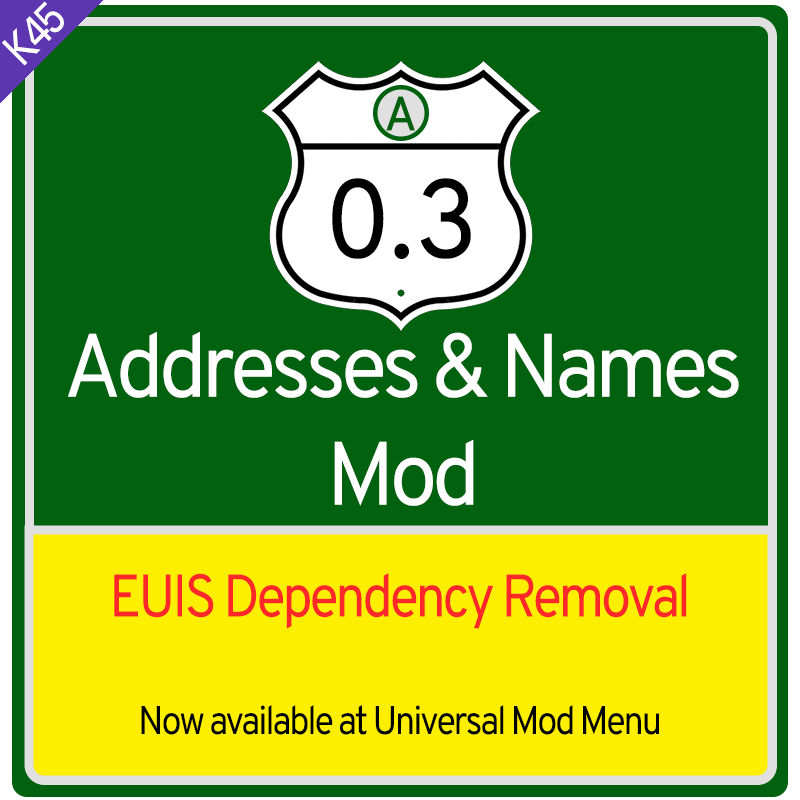
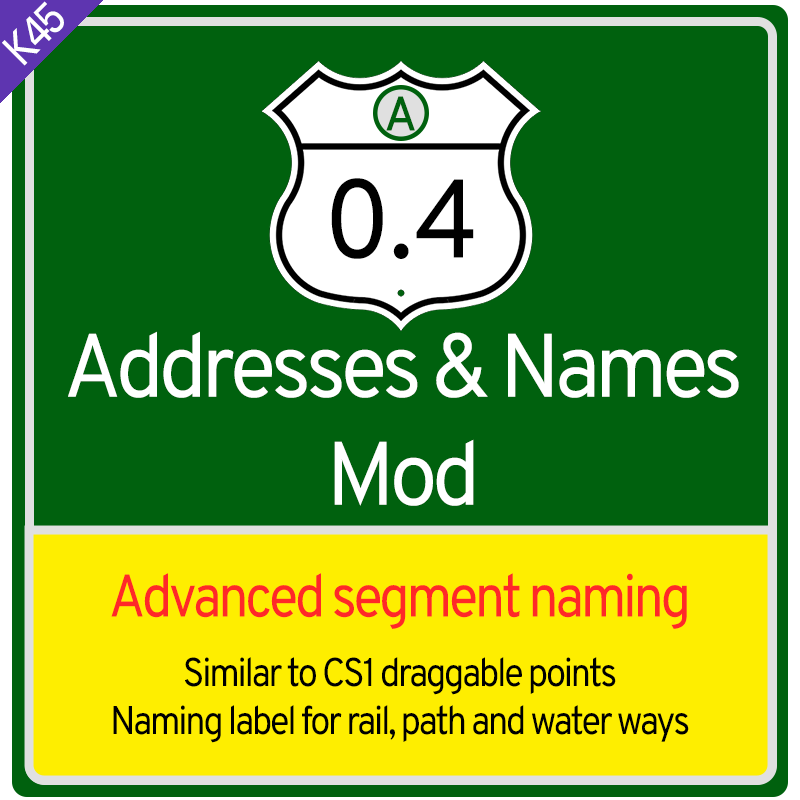
v0.4.0r0
Updating description and changelog

diff --git a/BelzontAdr/README.md b/BelzontAdr/README.md
@@ -1,7 +1,7 @@
 # Addresses & Names Mod for Cities Skylines 2
 ## _Name it all as you wish_
 
-This mod is the successor of the CS1 homonimous mod. It allows changing vanilla methods of name generation to custom name sets.
+This mod is the successor of the CS1 homonymous mod. It allows changing vanilla methods of name generation to custom name sets, and lets you build custom road (and other network) name groups with shared house numbering.
 
 You can find several name files at [Addresses Files repository at GitHub](https://github.com/klyte45/AddressesFiles). These files will work for both CS1 and CS2 versions of this mod.
 
@@ -12,21 +12,25 @@ You can find several name files at [Addresses Files repository at GitHub](https:
 ## Current features
 
 - Settings available in the vanilla `Mods` menu through the Universal Mod Menu integration. Extra UI Screens is not required.
-- **Road marker asset:** store information of a road and don't lose it when the game regenerate the road names
-- **Highway settings editor:** register highways to be shown specially in the game, useful for Write Everywhere integration but also helpful without it. Requires the Road marker asset to associate the highway with the roads.
+- **Road Grouping tool:** fork vanilla aggregations into custom A&N groups that share one name and one house-number sequence. Join or split membership with click, endpoint drag, and fixed pin; overlays show membership and number ranges. Options cover custom name, naming seed, and highway data. Enable the tool and its hotkey in mod options.
+- **Multi-kind network groups:** roads, pathways, train/tram/subway, waterways, and taxiways. Street and highway may share a road group; mixing different network kinds is blocked with clear feedback. Non-road groups get kind-colored name labels.
+- **Citywide convert / remove:** on Roads & Districts settings, convert selected network kinds to A&N aggregations, or remove A&N aggregations (optionally keeping highway groups).
+- **A&N road name labels:** while the mod is loaded, road name labels are drawn by A&N (one-way arrows unchanged). Clicking a label selects the A&N group when applicable. Label sizing / automatic distance options are in General settings.
+- **Highway settings editor:** register highways in the region settings UI. Assign route, direction, and mileage on an **A&N road group** from the Addresses selected-info panel or Road Grouping tool options. Highway name labels show a yellow route-code line (`prefix-suffix`, with optional direction). Useful with Write Everywhere and without it.
+- **Road marker asset:** placeable props for Write Everywhere and custom numeric parameters. Markers are visual; they do not author highway route or mileage (that lives on the A&N group).
 - **Neighbor cities editor:** register neighbor cities to be used when retrieving the outside connection name. They can be reached by land, water, air or any combination of them. A map shows them in the in-game settings UI.
 - Edit names of any clickable object in the editor (and save changes to send with the maps created)
 - Change sources references for stations names and seeds for roads and districts names in the selected info panel
 - In-game filename viewer, showing the weight of each word.
   - Words with a higher weight tends to appear more frequently
   - Raise word weight by creating several lines with same content in the name file.
-- Organize your file names using subfolder in the names folder (NEW)
+- Organize your file names using subfolders in the names folder
 - Choose files to override name generation of:
   - Male cims
   - Female cims
   - Surnames (are last names as default, but may be inverted to follow oriental standard)
 	- To use gendered surnames, in the surname files add the female and male version of the surname separated by a semicolon (;)
-  - Dogs (NEW)
+  - Dogs
   - Roads (Global and by district)
   - Districts
 - Roads qualifier rules editor
@@ -38,15 +42,22 @@ Now it's possible to setup the mod to generate up to 5 given names and up to 5 s
 
 ## Road marker: Write Everywhere integration
 
-Any modder interested on create WE Modules that serves content to road markers might want to describe the available settings to show in the game UI. Addresses offers two integer parameters that can be used as desired by 
-module designers, example can be found at [Addresses Marker as Signs Pack](????) repository.
+Any modder interested on create WE Modules that serves content to road markers might want to describe the available settings to show in the game UI. Addresses offers two integer parameters that can be used as desired by module designers.
 
 To generate the metadata, [this repository might be useful](https://github.com/klyte45/CS2-ADR-WE-road-marker-metadata). It's filled with the data describing how Addresses Marker as Signs Pack uses the two parameters.
 
 Making story short, the parameters can be worked as bits groups, and can use dropdowns or integer inputs to set the values at UI. Simple conditions can be used to make a field be visible or not.
 
+Highway route, direction, and mileage for Write Everywhere formulas are resolved from the **owning A&N road group**, not from the marker itself.
+
+## Next steps
+
+For 0.5+, it's planned to expand the Highway settings like the CS1 version did before. Expect for features like Highway shields editor, exit roads marking, procedural/automatic usages for the A&N Markers (mileage markes, exit information signs, etc.). For the A&N markers, it will can also be used for enhance automatic detailing for rails (auto place signaling) and other land type ways. All those markers feature expansion will rely on future WE performance updates planned for soon to make them as static as possible.
+
+The road for 1.0 is longer, since there are a lot of other features from original mod that are missing yet.
+
 ## Experimental mod warning!
-This mod may cause issues in the game due their early stage of development. This may be updated in the future until the official platform PDXMods get done and released
+This mod may cause issues in the game due to its early stage of development. Treat it as experimental until it reaches version 1.0.
 
 ## Support
-The most up to date information about installation and known issues and bugs is at the forum topíc.
+The most up to date information about installation and known issues and bugs is at the [forum topic](https://forum.paradoxplaza.com/forum/threads/addresses-names-mod-for-cs2.1651551/).

diff --git a/BelzontAdr/changelog.md b/BelzontAdr/changelog.md
@@ -1,3 +1,15 @@
-# v0.3.0r1 (09-SEP-26)
+# v0.4.0r0 (15-SEP-26)
+- **Segments Grouping tool** (Ctrl+Shift+A, rebindable at options): fork vanilla aggregations into custom A&N groups; join/split membership (click, endpoint drag, fixed pin); shared name and house-number sequence; overlay ribbons and number cards; options for custom name, seed, and highway; error and InputHint tooltips.
+- **Citywide convert / remove** on Roads & Districts settings: convert selected network kinds to A&N aggregations, or remove them (optional skip to keep highway groups). Useful to add labels to all your non-roads! Segments that belongs to a building (like train stations) are not automatically converted, but can receive an A&N Aggregation by using the Grouping Tool.
+- **Highway data now lives on A&N road groups**, not on road markers. Assign route, direction, and mileage from the Addresses selected-info panel or Road Grouping tool options. Markers stay visual. **Existing saves need highway routes reassigned** on A&N groups (no automatic migration).
+- **Segment name labels are drawn by A&N** while the mod is loaded (vanilla road-name labels are replaced; one-way arrows unchanged). Clicking a label selects the A&N group when applicable. This enable labels being rendered for non-road segments like **Railways, Tramways, Waterways, etc.**. Each kind of label have a different text outline color.
+- Namesets and automatic road naming apply to **roads**; other network kinds use kind-based default names. Highway settings remain road-group only.
+- New Write Everywhere formulas resolve route and mileage from the owning A&N group.
+- Mod options for Road Grouping activation and road-name label sizing / automatic distance (General).
+- Fixed: Stations named from a highway source show the route code instead of an empty name.
+- Fixed highway mileage/direction and related label display edge cases (including negative numbering).
+- Fixed non-road A&N name labels that could fail to draw in common cases.
+
+## FROM v0.3.0r1 (09-SEP-26)
 - Removed the Extra UI Screens requirement for ADR settings
 - Moved mod settings to the Universal Mod Menu
